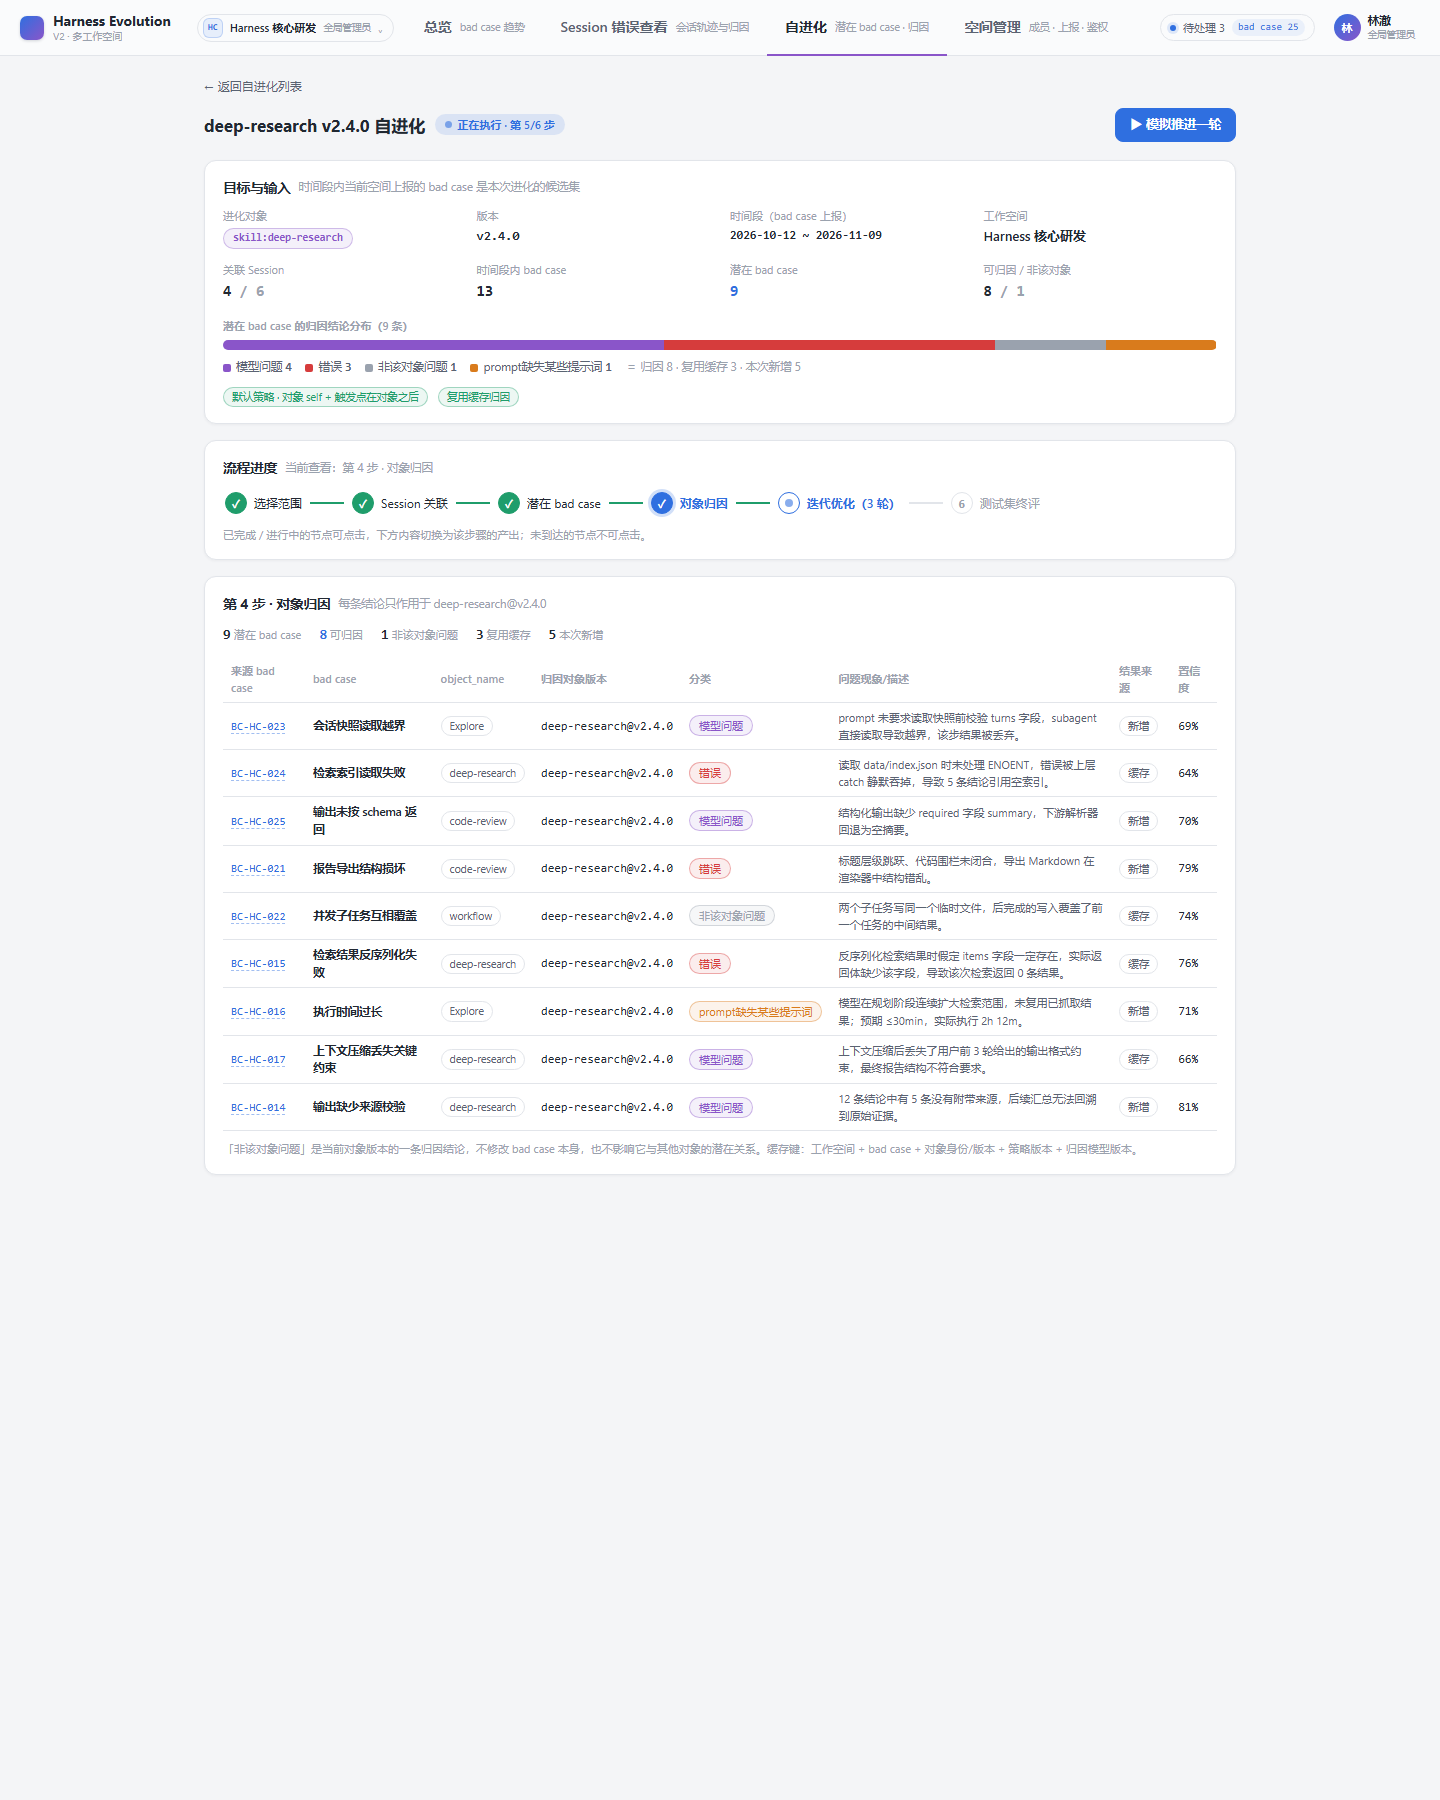
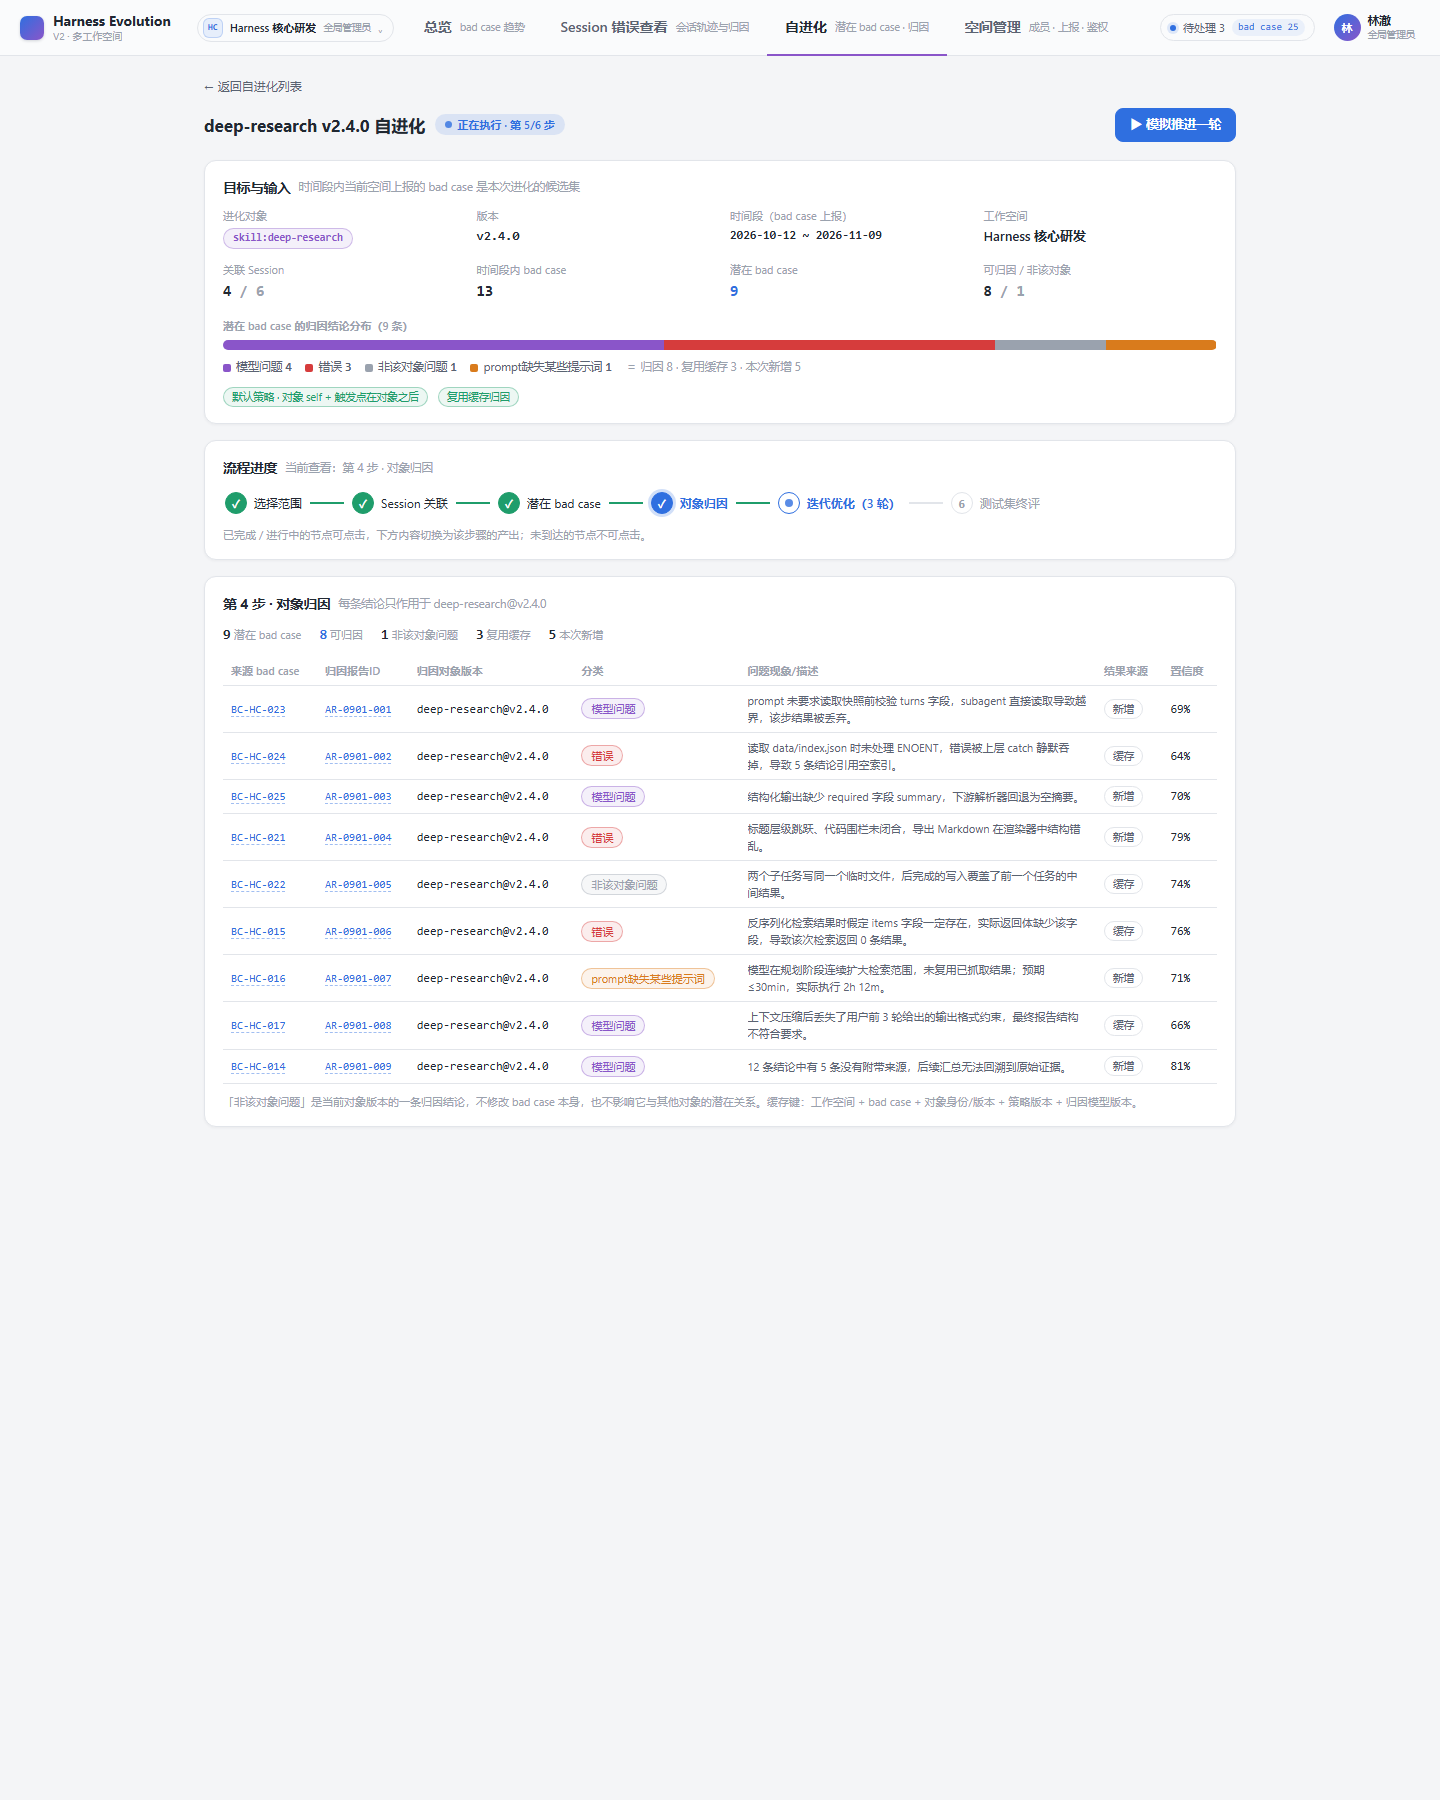
feat(prototype): replace attribution bad case columns with report id

Changed region(s): [[0.1562, 0.3733, 0.8438, 0.6533]]

diff --git a/plans/ui-prototype-v2/harness-evolution.html b/plans/ui-prototype-v2/harness-evolution.html
@@ -458,6 +458,7 @@
 .evo-app .rep td.session-cell { max-width: 170px; }
 .evo-app .rep td.session-cell b { display: block; max-width: 170px; overflow: hidden; text-overflow: ellipsis; white-space: nowrap; font-size: 11.5px; }
 .evo-app .rep td.attr-source { white-space: nowrap; }
+.evo-app .rep td.attr-report { white-space: nowrap; }
 .evo-app .rep td.attr-case { max-width: 150px; font-weight: 600; font-size: 11.5px; }
 .evo-app .rep td.attr-target { white-space: nowrap; }
 .evo-app .rep td.attr-desc { max-width: 320px; color: var(--text-dim); font-size: 11px; line-height: 1.55; }
@@ -3280,8 +3281,10 @@ function evRunModel(run) {
   });
   const potentialRows = [];
   assoc.forEach(a => a.potential.forEach(c => potentialRows.push({ c, a })));
-  potentialRows.forEach(row => {
+  const runShort = String(run.id || '').replace(/[^0-9A-Za-z]/g, '').slice(-4).toUpperCase() || 'RUN';
+  potentialRows.forEach((row, idx) => {
     const h = v2Hash(run.id + row.c.id + run.target.name);
+    row.attributionId = `AR-${runShort}-${String(idx + 1).padStart(3, '0')}`;
     const cached = run.cache !== false && (h % 2 === 0);
     const notObject = row.c.objectName !== run.target.name && row.c.type === 'discovery' && (h % 4 === 0);
     row.cached = cached;
@@ -3638,8 +3641,7 @@ function evStepAttr(run) {
     const category = r.conclusion === 'not-object' ? '非该对象问题' : r.category;
     return `<tr>
       <td class="mono attr-source">${evCaseLink(r.c)}</td>
-      <td class="attr-case">${evEsc(r.c.title)}</td>
-      <td><span class="v2-badge">${evEsc(r.c.objectName)}</span></td>
+      <td class="mono attr-report"><a class="idlink" href="${caseDeepLink(r.c.id, 'attr')}" target="_blank" rel="noopener" title="归因报告 ID · 打开归因分析">${r.attributionId}</a></td>
       <td class="mono attr-target">${run.target.name}@${run.target.version}</td>
       <td>${evTypeChip(category)}</td>
       <td class="attr-desc"><span title="${evEsc(r.c.detail)}">${evEsc(r.c.detail)}</span></td>
@@ -3656,7 +3658,7 @@ function evStepAttr(run) {
       <span class="st"><b>${m.reused}</b><span>复用缓存</span></span>
       <span class="st"><b>${m.fresh}</b><span>本次新增</span></span>
     </div>
-    <table class="rep"><thead><tr><th>来源 bad case</th><th>bad case</th><th>object_name</th><th>归因对象版本</th><th>分类</th><th>问题现象/描述</th><th>结果来源</th><th>置信度</th></tr></thead><tbody>${rows || '<tr><td colspan="8" class="waiting">没有需要归因的潜在 bad case</td></tr>'}</tbody></table>
+    <table class="rep"><thead><tr><th>来源 bad case</th><th>归因报告ID</th><th>归因对象版本</th><th>分类</th><th>问题现象/描述</th><th>结果来源</th><th>置信度</th></tr></thead><tbody>${rows || '<tr><td colspan="7" class="waiting">没有需要归因的潜在 bad case</td></tr>'}</tbody></table>
     <p class="v2-note" style="margin-top:9px">「非该对象问题」是当前对象版本的一条归因结论，不修改 bad case 本身，也不影响它与其他对象的潜在关系。缓存键：工作空间 + bad case + 对象身份/版本 + 策略版本 + 归因模型版本。</p>
   </div>`;
 }

diff --git a/plans/ui-prototype-v2/design-v2.md b/plans/ui-prototype-v2/design-v2.md
@@ -192,6 +192,7 @@ workspace_id + bad_case_id + object_identity + object_version + policy_version +
 - 点击父行 → 问题描述 Tab；点击归因子项 → 归因分析 Tab，并定位到该条归因。
 - 右栏保留执行流；选中 bad case 时只显示它的 finding 卡。
 - 归因分析展示：结论（可归因 / 非该对象问题）、分类、对象版本、运行 ID、时间、缓存来源、置信度、策略、对象触发点 vs bad case 触发点、推导过程与结论边界。
+- 运行详情第 4 步的对象归因表不再重复「结论 / 分类」，改为：来源 bad case、归因报告 ID、归因对象版本、分类、问题现象/描述、结果来源、置信度。
 - 没有归因的 bad case 显示“尚未归因”，说明归因在自进化流程中生成；有权限的用户可直接以该 bad case 启动自进化。
 
 ## 9. 数据与契约边界
